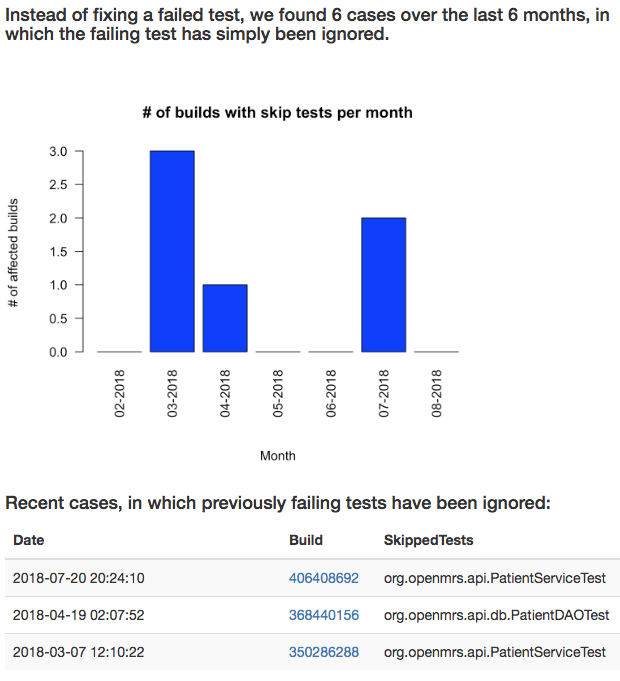
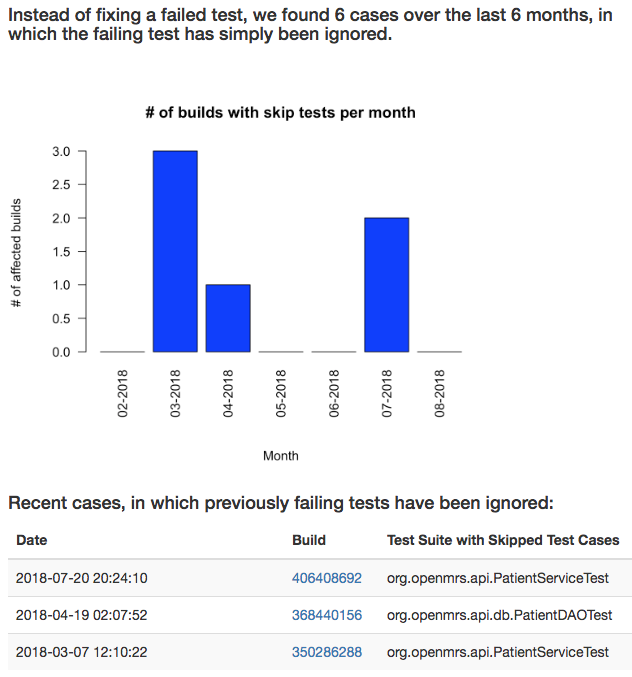
Adopted updates to failing tests in survey example.

diff --git a/summaries_for_survey/openmrs_openmrs-core/openmrs_openmrs-core.html b/summaries_for_survey/openmrs_openmrs-core/openmrs_openmrs-core.html
@@ -249,7 +249,7 @@ Date
 Build
 </th>
 <th style="text-align:left;">
-SkippedTests
+Test Suite with Skipped Test Cases
 </th>
 </tr>
 </thead>
